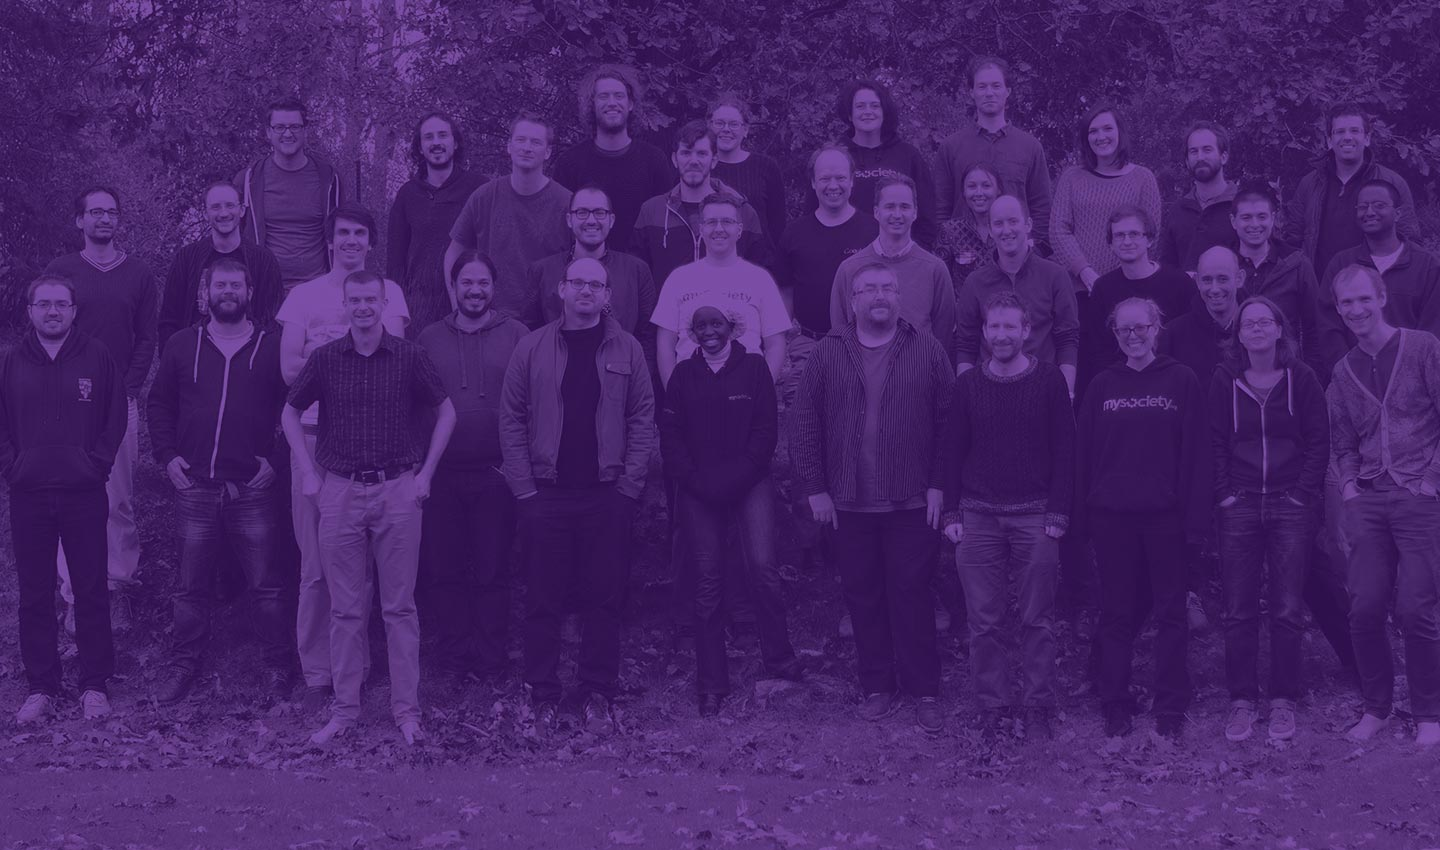
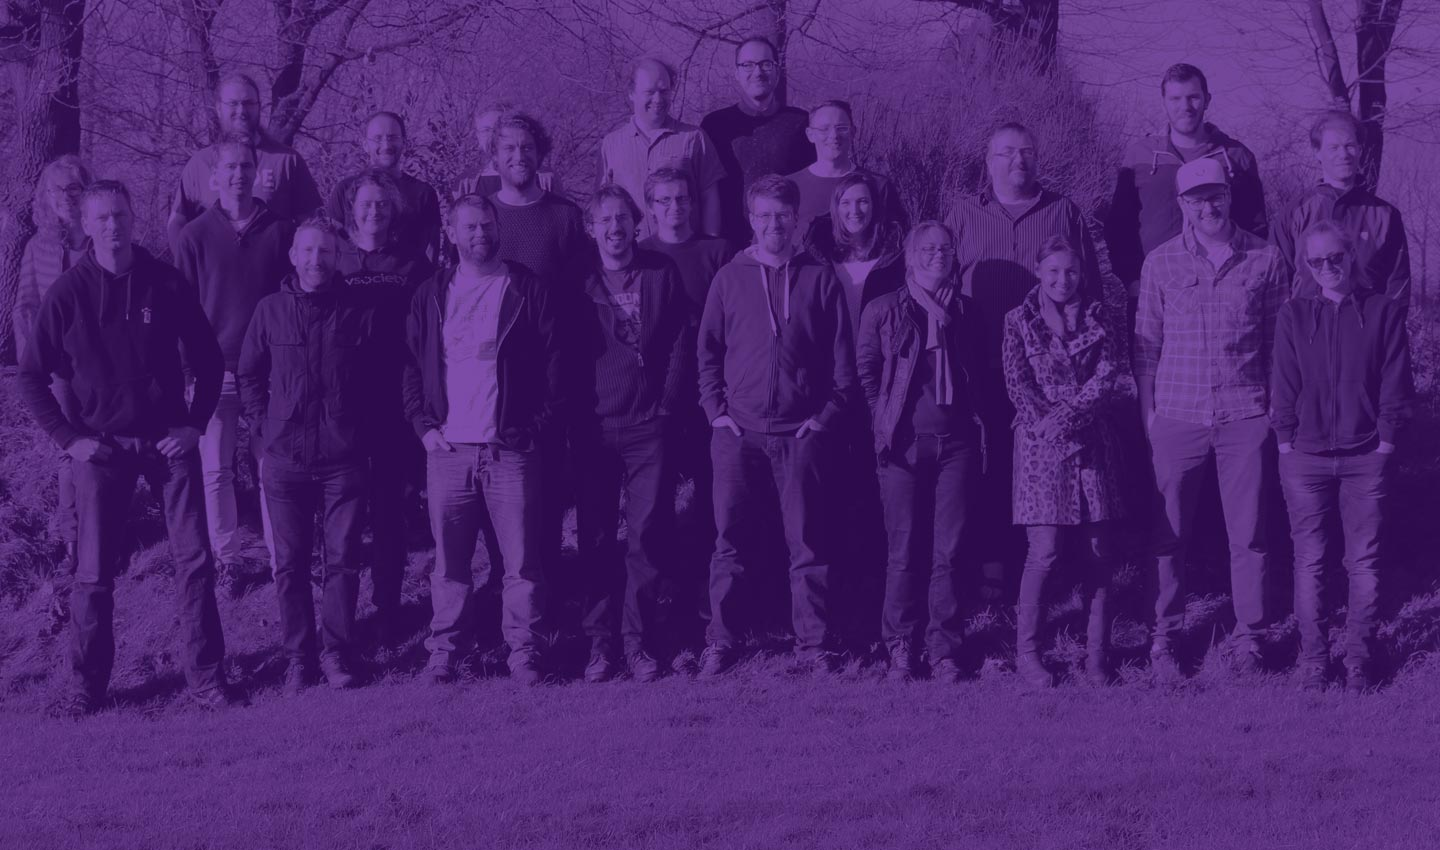
New team photo on homepage

diff --git a/2015/assets/sass/_sections.scss b/2015/assets/sass/_sections.scss
@@ -117,11 +117,19 @@
 
 .section--welcome--websites {
   @extend .section--centred;
-  @extend .section--impactful;
+  padding-top: 4em;
   padding-bottom: 0;
-  background: transparent url(../img/welcome-team.jpg) 50% 30% no-repeat;
+  background: transparent url(../img/welcome-team.jpg) 50% 10% no-repeat;
   background-size: cover;
   text-shadow: 0 0 0.5em transparentize(darken(map-get($sections, 'welcome'), 50%), 0.6);
+
+  @media (min-width: $large-screen) {
+    padding-top: 5em;
+  }
+
+  @media (min-width: $huge-screen) {
+    padding-top: 8%;
+  }
 
   .slideshow {
     margin-top: 2em;
